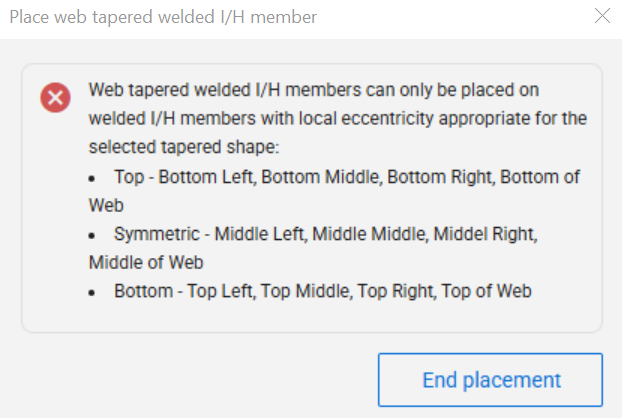
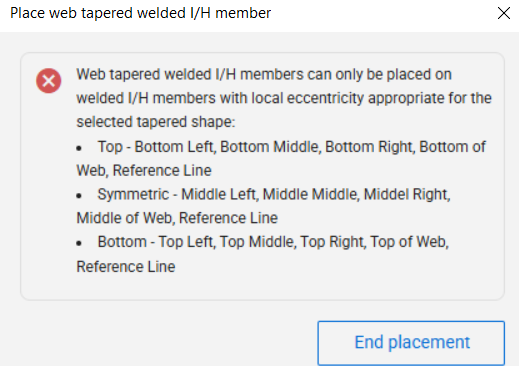
Javítások CS19 EN

diff --git a/versioned_docs/version-19/manual/5_0_structural-modeling/5_2_line-members.md b/versioned_docs/version-19/manual/5_0_structural-modeling/5_2_line-members.md
@@ -34,11 +34,11 @@ Member parameters can be defined in the middle part of the dialogs:
 
 - _Type of finite element_:
 
-**For steel members:**
+ **For steel members:**
 
-The available element types depend on the chosen section.
+ The available element types depend on the chosen section.
 
-- For welded single or double symmetrical cross-sections (macro section) there are four choices possible:
+ - For welded single or double symmetrical cross-sections (macro section) there are four choices possible:
 
   - **7 DOF beam element**: element with nodes of 7 degrees of freedom, including the warping of the thin-walled cross-section. It is an important effect in the case of structures with standard, open steel profiles.
 
@@ -50,20 +50,20 @@ The available element types depend on the chosen section.
 
   * **Tension bar (X Brace)** used for individual members of bracing systems made of elements working in tension only which are arranged in a way, that from a pair of members always just one is working in tension and the another is assumed to be efficient due to buckling. This option will linearize the behaviour of such members for a linear buckling eigenvalue calculation by considering the member working in both tension and compression, but with half cross-section properties.
 
-* For any other steel cross-sections, three of the above mentioned possible choices are available:
+ * For any other steel cross-sections, three of the above mentioned possible choices are available:
 
-  - 7 DOF beam element
+   - 7 DOF beam element
 
-  - Tension bar
+   - Tension bar
 
-  - Tension bar (X Brace)
+   - Tension bar (X Brace)
 
-**For reinforced concrete or composite members:**
+ **For reinforced concrete or composite members:**
 
-There is only one choice available: the _**6 DOF beam element**_ type. This is the commonly used finite element with nodes of 6 degrees of freedom.
+ There is only one choice available: the _**6 DOF beam element**_ type. This is the commonly used finite element with nodes of 6 degrees of freedom.
 
 - _Element group_: the members can be sorted out into element groups for various purposes (selection, dominant results, sensitivity analysis, etc.).  
-  if new element group is needed the **_Groups of structural members_** dialogue can be called by pressing the ![](./img/wp-content-uploads-2021-04-3dots-button.png) button next to the combo.
+   if new element group is needed the **_Groups of structural members_** dialogue can be called by pressing the ![](./img/wp-content-uploads-2021-04-3dots-button.png) button next to the combo.
 
 - _Number of finite elements_: the required number of finite elements used on the member in the analysis can be set. I The default _automatic_ option gives a sufficient result in the most cases.
 
@@ -700,19 +700,23 @@ New sections are created during the automatic finite element generation with app
 
 ## Web tapered welded I/H member
 
+![alt text](<img/New tapered.png>)
+
 In welded built-up members commonly used in metal buildings, the flange and web plate thicknesses often vary along the member length to optimize material usage according to internal force demands.
 
 The Web Tapered Welded I/H Member function allows users to define editable lists of flange and web plates with varying thicknesses along the member. Consteel automatically generates the corresponding finite element model based on these lists, allowing efficient and flexible modeling without dividing the element.
+
+For the function to operate correctly, **a welded macro I- or H-section member must be placed in the model**. Only the **material** parameter of the member remains as originally defined, all other parameters are assigned according to the settings of this function.
 
 :::info
 
 The function is available exclusively for welded I or H members and can be used only when the member’s local eccentricity matches the selected tapered shape.
 
-- **Top**: Bottom Left, Bottom Middle, Bottom Right, Bottom of the Web
+- **Top**: Bottom Left, Bottom Middle, Bottom Right, Bottom of the Web, Reference line
 
-- **Symmetric**: Middle Left, Middle Middle, Middle Right, Middle of the Web
+- **Symmetric**: Middle Left, Middle Middle, Middle Right, Middle of the Web, Reference line
 
-- **Bottom**: Top Left, Top Middle, Top Right, Top of the Web
+- **Bottom**: Top Left, Top Middle, Top Right, Top of the Web, Reference line
 
 :::
 
@@ -723,7 +727,7 @@ The function window is divided into two main sections: the first for member para
 
 1. **Member parametes**
 
-In this section, all parameters related to the member must be set. Note that for a predefined welded I or H member, only the material parameter remains as originally defined; all other parameters must be specified:
+In this section, all parameters related to the member must be set. 
 
 - **Shape**: Can be Top, Symmetric, or Bottom, depending on the member’s local eccentricity.
 
@@ -737,6 +741,8 @@ The **reference point** can be selected either at the start or at the end of the
 
 Users can define the **plate segments** using the ![alt text](img/plus.png) button by specifying the thickness and length of each segment separately for the top flange, web, and bottom flange.
 
+After defining the plate segments, their order can be changed by dragging and dropping them.
+
 In addition, the remaining part of each segment can be edited at the end of the line by clicking the edit icon ![alt text](img/edit.png).
 
 ![alt text](<img/EN Plate parameters.png>)
@@ -749,7 +755,7 @@ If the selected tapered type does not match the welded member’s local eccentri
 
 ![alt text](<img/EN Place web tapered welded I H.png>)
 
-If the placement is successful, users can select the member and modify its plate and member parameters in the Object Properties panel.
+If the placement is successful, users can select the member and modify its plate and member parameters in the Object Properties panel by clicking on the blue-colored dimensions.
 
 ![alt text](<img/EN member properties.png>)
 

diff --git a/versioned_docs/version-19/manual/5_0_structural-modeling/5_14_superbeam.md b/versioned_docs/version-19/manual/5_0_structural-modeling/5_14_superbeam.md
@@ -225,6 +225,7 @@ In the present version, the shell FE representation Of Superbeam is not compatib
 - Placed joint
 - Purlin line and Purlin joint
 - Influence line
+- Web tapered welded I/H member
 
 <!-- /wp:list -->
 
